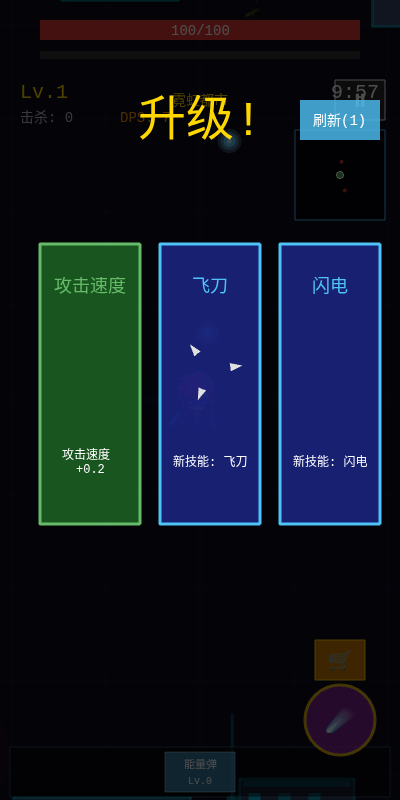
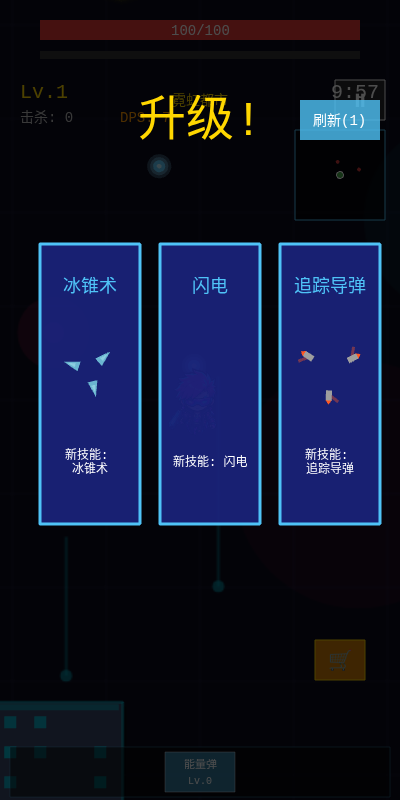
新增5个功能：飞刀修复+击退技能+吸血技能+建筑物阻挡+取消大招
1. 修复飞刀数量和分布
- 问题：飞刀初始角度随机，新添加的飞刀也是随机角度，导致分布不均匀
- 修复：所有飞刀共用一个baseAngle，每把飞刀角度相差2π/knifeCount，均匀分布
- 飞刀数量：3+level（最多12），超武进化后+4

2. 新增击退强化技能（被动，5级）
- 每级增加50%击退效果
- 不同怪物击退系数：小怪100%、快速怪80%、坦克怪40%、精英怪30%、BOSS5%
- 普通子弹现在有击退功能了（之前没有）
- 最终击退 = 基础击退 × 击退技能加成 × 怪物类型系数

3. 新增生命汲取技能（被动，5级）
- 攻击敌人时回复一定比例的生命值
- 吸血比例：5% + 每级3%
- 每次命中最多回复：5 + 每级3 点生命值
- 回复时显示绿色浮动文字

4. 建筑物阻挡移动
- 新增checkBuildingCollision方法，圆形实体vs矩形建筑物碰撞检测
- 玩家和敌人移动后都检测与建筑物的碰撞
- 碰撞后把实体从建筑物中推开
- 建筑物不再是纯粹的摆设，可以当作地形阻挡移动

5. 取消右下角大招
- 大招按钮和相关UI元素已隐藏（visible=false）
- 保留代码以便以后恢复
- 大招更新逻辑仍然运行但不影响游戏

自动化测试验证：
✅ 升级界面稳定：5秒内子对象数量742不变
✅ 刷新技能正常
✅ 只有2个404错误（资源加载），没有其他错误
✅ 构建和打包成功

diff --git a/src/scenes/GameScene.js b/src/scenes/GameScene.js
@@ -6,7 +6,7 @@ import { Bullet, XpGem } from '../entities/Bullet.js';
 import { Item, ItemTypes, BuffManager } from '../entities/Item.js';
 import { RelicTypes, RelicManager } from '../entities/Relic.js';
 import { ExtraFeaturesManager, UltimateSkills, ShopItems } from '../systems/ExtraFeatures.js';
-import { SkillFactory, KnifeSkill, FireballSkill, LightningSkill, AuraSkill, MissileSkill, IceSpikeSkill, WhirlwindSkill } from '../skills/Skills.js';
+import { SkillFactory, KnifeSkill, FireballSkill, LightningSkill, AuraSkill, MissileSkill, IceSpikeSkill, WhirlwindSkill, KnockbackSkill, LifestealSkill } from '../skills/Skills.js';
 import { gameState } from '../state/GameState.js';
 import { soundManager } from '../audio/SoundManager.js';
 import { BackgroundImages } from '../assets/backgrounds.js';
@@ -167,15 +167,18 @@ export class GameScene extends Phaser.Scene {
             this.togglePause();
         });
         
-        // 大招按钮（右下角）
+        // 大招按钮（右下角）- 已取消
         this.ultimateBtn = this.add.circle(w - 60, this.scale.height - 80, 35, 0x9C27B0, 0.8)
             .setScrollFactor(0).setDepth(999)
             .setStrokeStyle(3, 0xFFD700, 0.8)
-            .setInteractive({ useHandCursor: true });
+            .setInteractive({ useHandCursor: true })
+            .setVisible(false);
         this.ultimateText = this.add.text(w - 60, this.scale.height - 80, '☄', { fontSize: '24px' })
-            .setScrollFactor(0).setDepth(1000).setOrigin(0.5);
+            .setScrollFactor(0).setDepth(1000).setOrigin(0.5)
+            .setVisible(false);
         this.ultimateCooldownText = this.add.text(w - 60, this.scale.height - 80, '', { fontSize: '14px', color: '#FFFFFF', fontWeight: 'bold' })
-            .setScrollFactor(0).setDepth(1001).setOrigin(0.5);
+            .setScrollFactor(0).setDepth(1001).setOrigin(0.5)
+            .setVisible(false);
         this.ultimateBtn.on('pointerdown', () => {
             if (this.extraFeatures.castUltimate()) {
                 soundManager.play('boss');
@@ -305,6 +308,37 @@ export class GameScene extends Phaser.Scene {
             this.buildings.push(building);
         }
         console.log('生成建筑:', buildingCount, '个');
+    }
+    
+    // 建筑物碰撞检测（圆形实体 vs 矩形建筑物，碰撞后推开实体）
+    checkBuildingCollision(entity, radius) {
+        if (!this.buildings || this.buildings.length === 0) return;
+        for (const building of this.buildings) {
+            if (!building.active) continue;
+            const bx = building.x;
+            const by = building.y;
+            const bw = building.width / 2;
+            const bh = building.height / 2;
+            // 找到矩形上离圆心最近的点
+            const closestX = Math.max(bx - bw, Math.min(entity.x, bx + bw));
+            const closestY = Math.max(by - bh, Math.min(entity.y, by + bh));
+            // 计算圆心到最近点的距离
+            const dx = entity.x - closestX;
+            const dy = entity.y - closestY;
+            const dist = Math.sqrt(dx * dx + dy * dy);
+            // 如果距离小于半径，发生碰撞
+            if (dist < radius) {
+                if (dist > 0) {
+                    // 把实体从建筑物中推开
+                    const push = radius - dist;
+                    entity.x += (dx / dist) * push;
+                    entity.y += (dy / dist) * push;
+                } else {
+                    // 圆心在矩形中心，随机方向推开
+                    entity.x += radius;
+                }
+            }
+        }
     }
     
     setupInput() {
@@ -452,6 +486,9 @@ export class GameScene extends Phaser.Scene {
                 
                 this.player.update(dt);
             
+            // 玩家与建筑物碰撞检测
+            this.checkBuildingCollision(this.player, this.player.radius);
+            
             // 更新所有技能（关键：之前缺失，导致所有技能都没有实装）
             for (const skill of this.player.skills) {
                 skill.update(this.player, this, dt);
@@ -474,6 +511,8 @@ export class GameScene extends Phaser.Scene {
             // 更新怪物
             for (const enemy of this.enemies) {
                 enemy.update(dt, this.player);
+                // 敌人与建筑物碰撞检测
+                this.checkBuildingCollision(enemy, enemy.radius);
                 if (enemy.alive && Math.hypot(enemy.x - this.player.x, enemy.y - this.player.y) < enemy.radius + this.player.radius) {
                     const dead = this.player.takeDamage(enemy.damage);
                     soundManager.play('hurt', 0.6);
@@ -538,9 +577,21 @@ export class GameScene extends Phaser.Scene {
                         const skillName = bullet.skillName || '普通攻击';
                         this.damageStats.bySkill[skillName] = (this.damageStats.bySkill[skillName] || 0) + dmg;
                         
+                        // 击退（集成击退技能和不同怪物类型的击退系数）
+                        const knockbackSkill = this.player.getSkill('击退强化');
+                        const knockbackMultiplier = knockbackSkill ? knockbackSkill.knockbackMultiplier : 1;
+                        const enemyKnockbackFactor = KnockbackSkill.getEnemyKnockbackFactor(enemy.type);
+                        const baseKnockback = isCrit ? 300 : 150;
+                        const finalKnockback = baseKnockback * knockbackMultiplier * enemyKnockbackFactor;
                         const angle = Math.atan2(bullet.vy, bullet.vx);
-                        enemy.knockbackX += Math.cos(angle) * (isCrit ? 300 : 150);
-                        enemy.knockbackY += Math.sin(angle) * (isCrit ? 300 : 150);
+                        enemy.knockbackX += Math.cos(angle) * finalKnockback;
+                        enemy.knockbackY += Math.sin(angle) * finalKnockback;
+                        
+                        // 吸血（生命汲取技能）
+                        const lifestealSkill = this.player.getSkill('生命汲取');
+                        if (lifestealSkill && lifestealSkill.level > 0) {
+                            lifestealSkill.onDamageDealt(this.player, this, dmg);
+                        }
                         
                         this.addFloatingText(enemy.x, enemy.y - enemy.radius, Math.floor(dmg).toString(), isCrit ? 0xFFD700 : 0xFFFFFF, isCrit ? 28 : 18, isCrit);
                         this.spawnHitParticles(enemy.x, enemy.y, isCrit);

diff --git a/src/skills/Skills.js b/src/skills/Skills.js
@@ -97,6 +97,7 @@ export class KnifeSkill extends Skill {
         super('飞刀', 8);
         this.orbitingKnives = [];
         this.shootTimer = 0;
+        this.baseAngle = 0; // 基础旋转角度，所有飞刀共用
     }
     
     get knifeCount() {
@@ -111,23 +112,27 @@ export class KnifeSkill extends Skill {
         return 80 + this.level * 10;
     }
     
+    get rotationSpeed() {
+        return 2 + this.level * 0.3;
+    }
+    
     update(player, scene, dt) {
         super.update(player, scene, dt);
         // 维护环绕飞刀数量
         while (this.orbitingKnives.length < this.knifeCount) {
-            this.orbitingKnives.push({
-                angle: Math.random() * Math.PI * 2,
-                speed: 2 + this.level * 0.3
-            });
+            this.orbitingKnives.push({ hitEnemies: new Set() });
         }
         while (this.orbitingKnives.length > this.knifeCount) {
             this.orbitingKnives.pop();
         }
-        // 更新飞刀位置和碰撞
-        for (const knife of this.orbitingKnives) {
-            knife.angle += knife.speed * dt;
-            const kx = player.x + Math.cos(knife.angle) * this.orbitRadius;
-            const ky = player.y + Math.sin(knife.angle) * this.orbitRadius;
+        // 更新基础旋转角度
+        this.baseAngle += this.rotationSpeed * dt;
+        // 更新飞刀位置（均匀分布，每把飞刀角度相差 2π/knifeCount）
+        for (let i = 0; i < this.orbitingKnives.length; i++) {
+            const knife = this.orbitingKnives[i];
+            const angle = this.baseAngle + (i / this.knifeCount) * Math.PI * 2;
+            const kx = player.x + Math.cos(angle) * this.orbitRadius;
+            const ky = player.y + Math.sin(angle) * this.orbitRadius;
             knife.x = kx; knife.y = ky;
             // 碰撞敌人
             for (const e of scene.enemies) {
@@ -470,7 +475,9 @@ export const SkillFactory = {
             new AuraSkill(),
             new MissileSkill(),
             new IceSpikeSkill(),
-            new WhirlwindSkill()
+            new WhirlwindSkill(),
+            new KnockbackSkill(),
+            new LifestealSkill()
         ];
     },
     
@@ -483,8 +490,69 @@ export const SkillFactory = {
             '灼烧光环': AuraSkill,
             '追踪导弹': MissileSkill,
             '冰锥术': IceSpikeSkill,
-            '旋风斩': WhirlwindSkill
+            '旋风斩': WhirlwindSkill,
+            '击退强化': KnockbackSkill,
+            '生命汲取': LifestealSkill
         };
         return map[name] ? new map[name]() : null;
     }
 };
+
+// 9. 击退强化（被动技能，增加所有攻击的击退效果）
+export class KnockbackSkill extends Skill {
+    constructor() {
+        super('击退强化', 5);
+    }
+    
+    get knockbackMultiplier() {
+        return 1 + this.level * 0.5; // 每级增加50%击退
+    }
+    
+    // 不同怪物类型的击退系数
+    static getEnemyKnockbackFactor(enemyType) {
+        const factors = {
+            'NORMAL': 1.0,    // 小怪：正常击退
+            'FAST': 0.8,      // 快速怪：击退减少20%
+            'TANK': 0.4,      // 坦克怪：击退减少60%
+            'ELITE': 0.3,     // 精英怪：击退减少70%
+            'BOSS': 0.05      // BOSS：几乎不击退
+        };
+        return factors[enemyType] !== undefined ? factors[enemyType] : 1.0;
+    }
+    
+    update(player, scene, dt) {
+        super.update(player, scene, dt);
+        // 被动技能，不需要主动更新
+    }
+}
+
+// 10. 生命汲取（被动技能，攻击敌人时回复生命值）
+export class LifestealSkill extends Skill {
+    constructor() {
+        super('生命汲取', 5);
+        this.healCooldown = 0;
+    }
+    
+    get lifestealPercent() {
+        return 0.05 + this.level * 0.03; // 5% + 每级3%
+    }
+    
+    get maxHealPerHit() {
+        return 5 + this.level * 3; // 每次命中最多回复的生命值
+    }
+    
+    // 造成伤害时触发吸血
+    onDamageDealt(player, scene, damage) {
+        if (this.level <= 0) return;
+        const healAmount = Math.min(damage * this.lifestealPercent, this.maxHealPerHit);
+        if (healAmount > 0) {
+            player.hp = Math.min(player.maxHp, player.hp + healAmount);
+            scene.addFloatingText(player.x, player.y - 30, '+' + Math.floor(healAmount), 0x4CAF50, 14);
+        }
+    }
+    
+    update(player, scene, dt) {
+        super.update(player, scene, dt);
+        // 被动技能，不需要主动更新
+    }
+}
